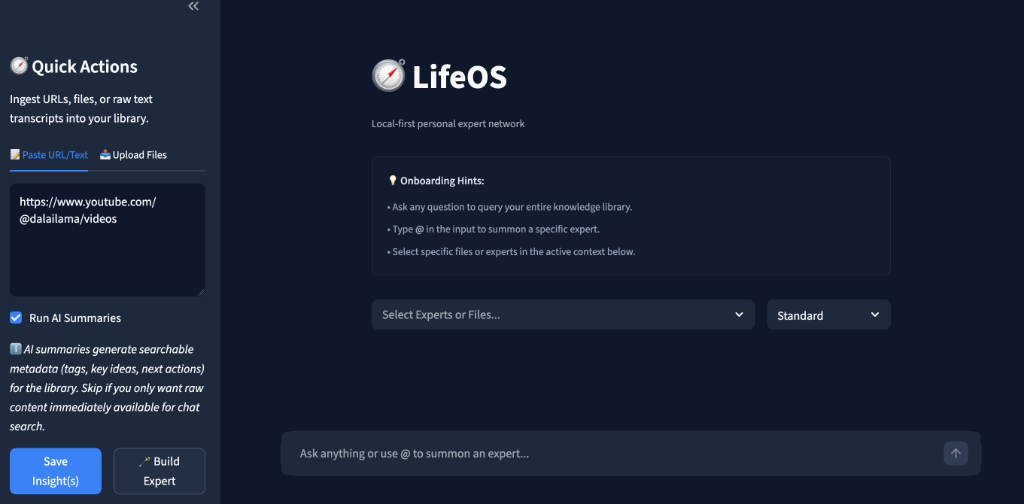
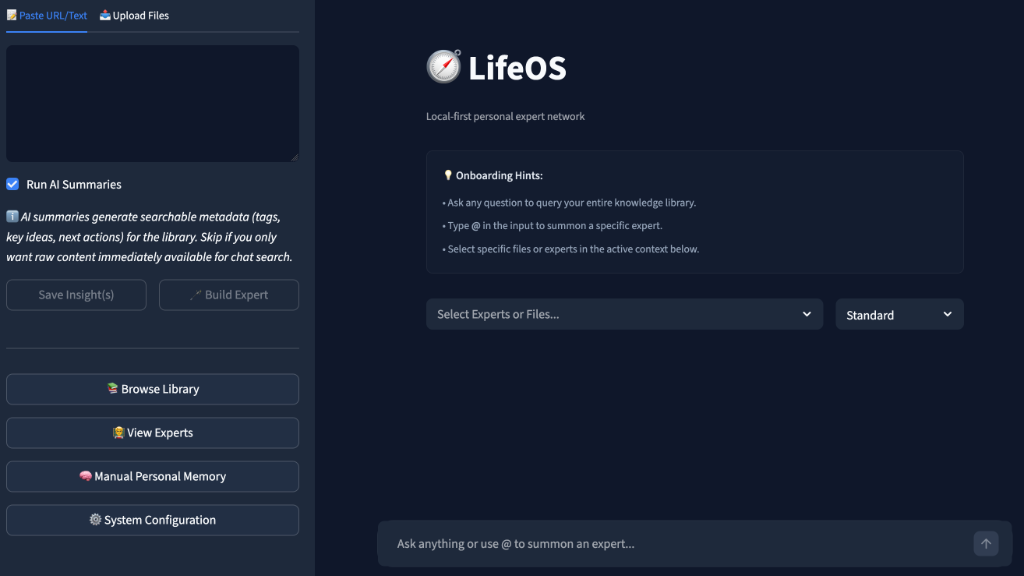
fix: Update main UI screenshot and resolve chat context import caching issue

diff --git a/apps/streamlit-chat/ui/chat.py b/apps/streamlit-chat/ui/chat.py
@@ -231,7 +231,7 @@ def _render_chat_body() -> None:
             # Provide the last 5 prior messages as conversation history
             history = st.session_state.get("messages", [])[-6:-1]
 
-            from core.chat_context import execute_agent_search_loop
+            from src.core.chat_context import execute_agent_search_loop
             answer_text, calls_made, agent_raw_results = execute_agent_search_loop(
                 system_prompt=system_prompt,
                 user_prompt=user_prompt,